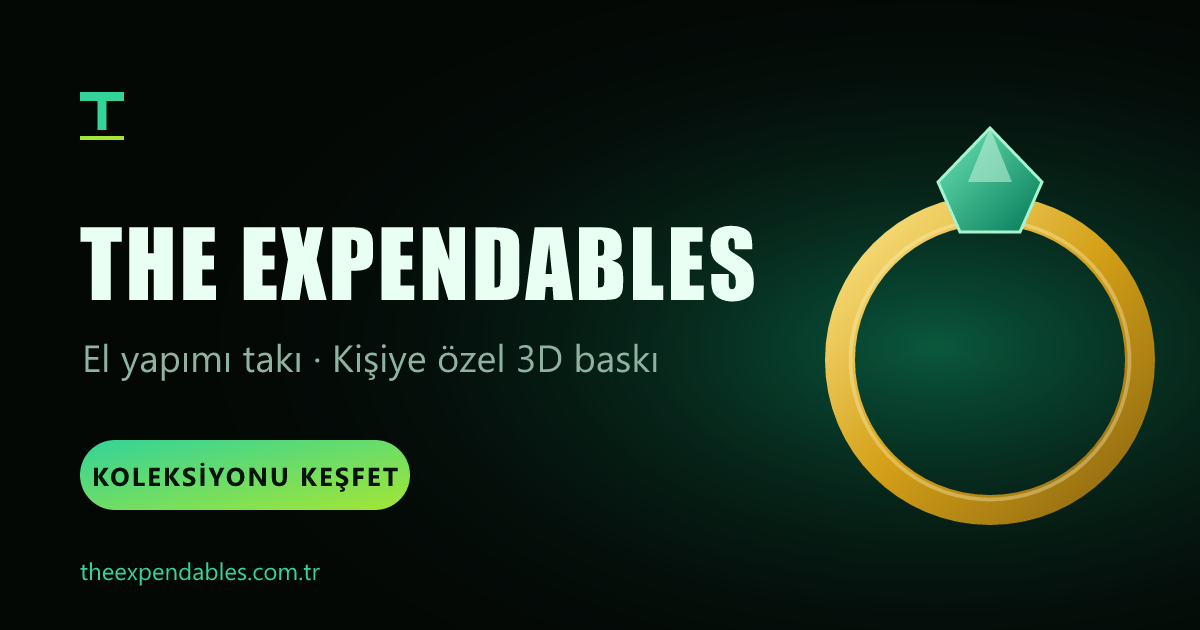
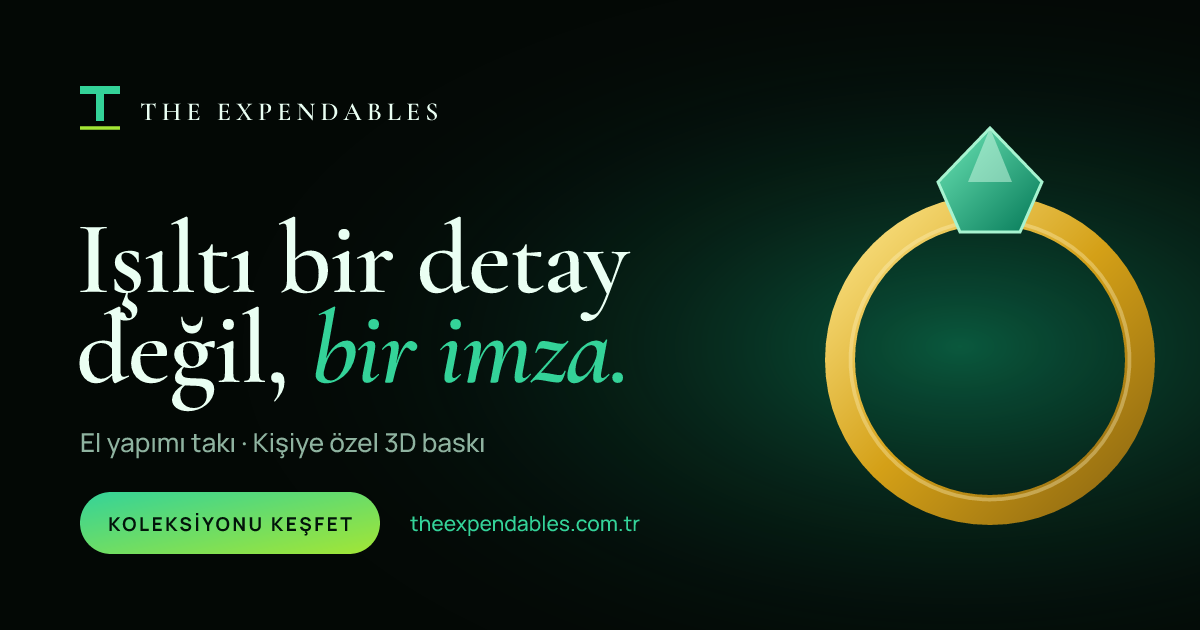
Paylaşım görselini yeni yazı tipleriyle güncelle

Changed region(s): [[0.0617, 0.3317, 0.6475, 0.6635], [0.0617, 0.6635, 0.5242, 0.9349], [0.0617, 0.1206, 0.37, 0.2413]]

diff --git a/index.html b/index.html
@@ -18,7 +18,7 @@
     <meta property="og:image" content="https://theexpendables.com.tr/og-image.png" />
     <meta property="og:image:width" content="1200" />
     <meta property="og:image:height" content="630" />
-    <meta property="og:image:alt" content="The Expendables — zümrüt taşlı altın yüzük ve marka adı" />
+    <meta property="og:image:alt" content="The Expendables — zümrüt taşlı altın yüzük ve “Işıltı bir detay değil, bir imza.” yazısı" />
     <meta name="twitter:card" content="summary_large_image" />
 
     <link rel="icon" type="image/svg+xml" href="/favicon.svg" />

diff --git a/CLAUDE.md b/CLAUDE.md
@@ -56,6 +56,6 @@ Takı ve 3D baskı ürünleri satan, sinematik 3D bir e-ticaret sitesi. Şimdili
 
 - Ödeme formu demodur, gerçek ödeme almaz. Gerçek ödeme için iyzico / PayTR gibi bir sağlayıcı ve sunucu gerekir.
 - KVKK, iade, mesafeli satış, kullanım koşulları ve gizlilik metinleri genel taslaktır. Yayından önce bir hukukçuya kontrol ettirilmeli.
-- Paylaşım görseli (`public/og-image.png`) kodla üretildi; görseldeki alan adı `theexpendables.com.tr` ve başlık yazısı Impact. Alan adı değişirse ya da yeni yazı tipine uydurulmak istenirse yeniden üretilmeli.
+- Paylaşım görseli (`public/og-image.png`, 1200×630) SVG'den `@resvg/resvg-js` ile üretildi (proje dışında, geçici klasörde). Sitedeki yazı tipleri kullanıldı: başlık Cormorant Garamond 600 + italik, metin Manrope (Google Fonts'tan TTF). İçerik: logo, "Işıltı bir detay değil, *bir imza.*", alt yazı, "Koleksiyonu Keşfet" butonu, `theexpendables.com.tr`, sağda zümrüt taşlı altın yüzük. Alan adı değişirse yeniden üretilmeli.
 - Kullanıcının önceliği yayına almak değil, siteyi geliştirmek.
 - "The Expendables" bilinen bir film serisinin adı. Kullanıcıya marka tescilini kontrol ettirmesi önerildi.
